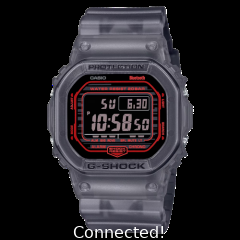
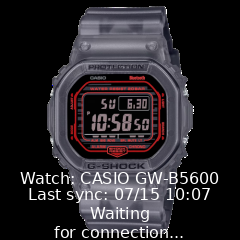
WIP

Changed region(s): [[0.0875, 0.7, 0.9333, 0.9917]]

diff --git a/src/gshock-server/gshock_server_display.py b/src/gshock-server/gshock_server_display.py
@@ -14,6 +14,8 @@ from gshock_api.watch_info import watch_info
 from args import args
 from datetime import datetime, timedelta
 from gshock_api.watch_info import watch_info
+from gshock_api.exceptions import GShockConnectionError
+
 
 __author__ = "Ivo Zivkov"
 __copyright__ = "Ivo Zivkov"
@@ -110,7 +112,7 @@ async def show_display(api: GshockAPI):
             auto_sync="On" if await api.get_time_adjustment() else "Off",
         )
 
-    except Exception as e:
+    except GShockConnectionError as e:
         logger.error(f"Got error: {e}")
 
 from peristent_store import PersistentMap
@@ -126,22 +128,31 @@ async def run_time_server():
                 address = None
             else:
                 address = conf.get("device.address")
-            
-            logger.info(f"Waiting for Connection...")
+
             watch_name = store.get("watch_name", "Unknown")
             last_sync = store.get("last_connected", "Unknown")
 
-            if watch_info is None or watch_info.name != watch_name:
-                oled.show_welcome_screen(message="Waiting\nfor connection...", watch_name=watch_name, last_sync=last_sync)
+            if watch_name == "Unknown":
+                oled.show_welcome_screen(
+                    message="Waiting\nfor connection...",
+                    watch_name=watch_name,
+                    last_sync=last_sync
+                )
+
+            logger.info("Waiting for Connection...")
 
             connection = Connection(address)
             await connection.connect()
+
+            # Show connected screen
+            oled.show_welcome_screen("Connected!")
+
             store.add("last_connected", datetime.now().strftime("%m/%d %H:%M"))
             store.add("watch_name", watch_info.name)
-            oled.show_welcome_screen("Connected!")  
- 
+
             api = GshockAPI(connection)
             pressed_button = await api.get_pressed_button()
+
             if (
                 pressed_button != WatchButton.LOWER_RIGHT
                 and pressed_button != WatchButton.NO_BUTTON
@@ -151,12 +162,15 @@ async def run_time_server():
 
             # Apply fine adjustment to the time
             fine_adjustment_secs = args.fine_adjustment_secs
-
             await api.set_time(int(time.time()) + fine_adjustment_secs)
+
             logger.info(f"Time set at {datetime.now()} on {watch_info.name}")
-                
-            # Only update the display if we have pressed LOWER-LEFT button,
-            # Otherwise the watch will disconnect before we get all the information for the display.
+
+        except Exception as e:
+            logger.error(f"Got error: {e}")
+
+        finally:
+            # Only show full display if LOWER_LEFT was pressed
             if pressed_button == WatchButton.LOWER_LEFT:
                 await show_display(api)
             elif pressed_button == WatchButton.LOWER_RIGHT:
@@ -165,14 +179,10 @@ async def run_time_server():
                     watch_name=store.get("watch_name", "Unknown"),
                     last_sync=last_sync
                 )
-    
-            if watch_info.alwaysConnected == False:
+
+            if watch_info.alwaysConnected is False:
                 await connection.disconnect()
-
-        except Exception as e:
-            logger.error(f"Got error: {e}")
-            continue
-
+            pass
 
 if __name__ == "__main__":
     asyncio.run(main(sys.argv[1:]))

diff --git a/src/gshock-server/gshock_server.py b/src/gshock-server/gshock_server.py
@@ -14,6 +14,7 @@ from gshock_api.watch_info import watch_info
 from args import args
 from datetime import datetime, timedelta
 from gshock_api.watch_info import watch_info
+from gshock_api.exceptions import GShockConnectionError
 
 __author__ = "Ivo Zivkov"
 __copyright__ = "Ivo Zivkov"
@@ -99,25 +100,15 @@ async def run_time_server():
             # Apply fine adjustment to the time
             fine_adjustment_secs = args.get().fine_adjustment_secs
             
-            try:
-                await api.set_time(int(time.time()) + fine_adjustment_secs)
-                logger.info(f"Time set at {datetime.now()} on {watch_info.name}")
-            except Exception as e:
-                # Ignore this exception if the LOWER-RIGHT button is pressed.
-                # In this case, the connection will be closed before the call completes with a response.
-                # The call actually works, though.
-
-                if pressed_button == WatchButton.LOWER_LEFT:
-                    # Re-throw the exception otherwise
-                    raise e    
+            await api.set_time(int(time.time()) + fine_adjustment_secs)
+            logger.info(f"Time set at {datetime.now()} on {watch_info.name}")
 
             if watch_info.alwaysConnected == False:
                 await connection.disconnect()
 
-        except Exception as e:
+        except GShockConnectionError as e:
             logger.error(f"Got error: {e}")
             continue
-
 
 if __name__ == "__main__":
     asyncio.run(main(sys.argv[1:]))
